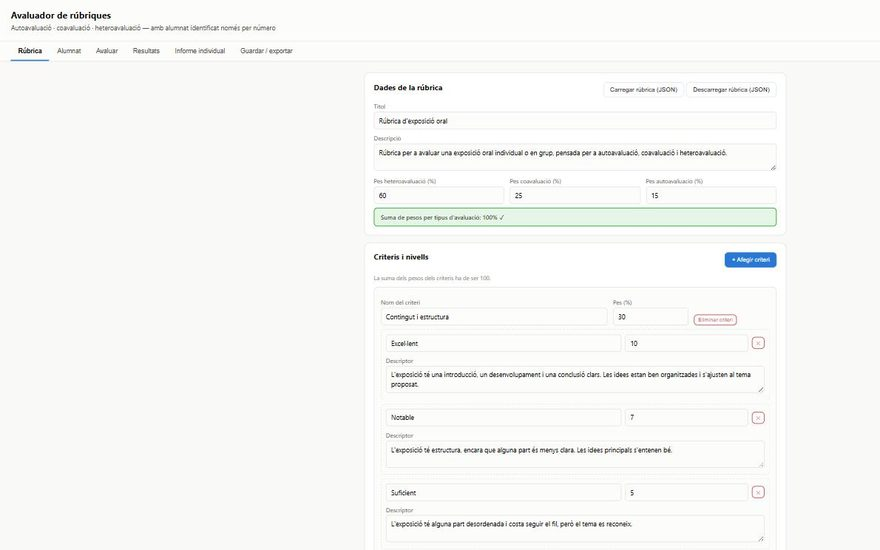
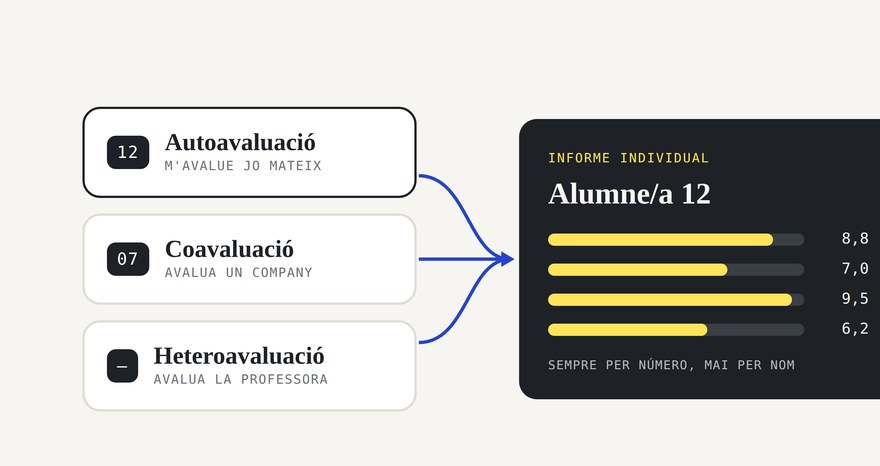
Millores de disseny: banda a Prompts, miniatures noves i llegibles, targetes de Formacions i llista de Recerca

diff --git a/index.html b/index.html
@@ -299,6 +299,23 @@
   .banda{background:#EFEDE6;box-shadow:0 0 0 100vmax #EFEDE6;clip-path:inset(0 -100vmax);
     padding-top:34px;padding-bottom:10px;margin-top:14px}
   .banda .card{background:#fff}
+  /* --- targetes informatives (sense enllaç) --- */
+  .card.info{border-left:3px solid var(--marker);position:relative}
+  .card.info h3{padding-right:40px}
+  .card.info .idx{position:absolute;top:15px;right:18px;
+    font-family:'Fraunces',Georgia,serif;font-weight:700;font-size:27px;line-height:1;
+    color:#E4E2D8}
+  /* --- llista de línies de recerca --- */
+  .linies{max-width:900px;padding-bottom:28px}
+  .linia{display:grid;grid-template-columns:78px 1fr;gap:20px;align-items:start;
+    padding:22px 0;border-top:1px solid var(--line)}
+  .linia:last-child{border-bottom:1px solid var(--line)}
+  .linia .n{font-family:'IBM Plex Mono',monospace;font-size:11px;letter-spacing:.1em;
+    color:var(--blue);padding-top:7px}
+  .linia h3{font-family:'Fraunces',Georgia,serif;font-weight:600;font-size:20.5px;
+    line-height:1.25;margin-bottom:6px}
+  .linia p{font-size:14px;color:var(--muted);max-width:650px}
+  @media(max-width:560px){.linia{grid-template-columns:1fr;gap:2px}.linia .n{padding-top:0}}
   /* --- xifres destacades --- */
   .xifres{background:var(--ink);color:#F6F5F1;padding:38px 0 34px}
   .xifres-grid{display:grid;grid-template-columns:repeat(auto-fit,minmax(160px,1fr));gap:26px}
@@ -452,28 +469,28 @@
     <div class="sec-head"><span class="sec-num">02</span><h2>Formacions</h2></div>
     <p class="sec-desc">Les meues principals línies de formació són:</p>
     <div class="grid">
-      <article class="card">
-        <span class="tag">Línia 1</span>
+      <article class="card info">
+        <span class="idx" aria-hidden="true">01</span>
         <h3>Intel·ligència Artificial aplicada a l'educació</h3>
         <p>Eines, prompting, creació de materials, personalització de l'aprenentatge, ètica i ús responsable de la IA.</p>
       </article>
-      <article class="card">
-        <span class="tag">Línia 2</span>
+      <article class="card info">
+        <span class="idx" aria-hidden="true">02</span>
         <h3>Didàctica de les llengües</h3>
         <p>Metodologies actives per a l'ensenyament del valencià i del castellà, desenvolupament de la competència comunicativa i disseny de situacions d'aprenentatge.</p>
       </article>
-      <article class="card">
-        <span class="tag">Línia 3</span>
+      <article class="card info">
+        <span class="idx" aria-hidden="true">03</span>
         <h3>Oratòria i debat acadèmic</h3>
         <p>Estratègies per a potenciar l'expressió oral, l'argumentació, el pensament crític i les habilitats comunicatives de l'alumnat.</p>
       </article>
-      <article class="card">
-        <span class="tag">Línia 4</span>
+      <article class="card info">
+        <span class="idx" aria-hidden="true">04</span>
         <h3>Innovació educativa i competència digital docent</h3>
         <p>Aprenentatge basat en projectes, gamificació, eines digitals i disseny d'experiències d'aprenentatge motivadores.</p>
       </article>
-      <article class="card">
-        <span class="tag">Línia 5</span>
+      <article class="card info">
+        <span class="idx" aria-hidden="true">05</span>
         <h3>Creació de recursos educatius digitals</h3>
         <p>Ús de plataformes i aplicacions per a elaborar materials interactius, activitats competencials i propostes d'avaluació.</p>
       </article>
@@ -483,7 +500,7 @@
     </div>
   </section>
 
-  <section id="trajectoria" class="banda">
+  <section id="trajectoria">
     <div class="sec-head"><span class="sec-num">03</span><h2>Formadora i ponent</h2></div>
     <p class="sec-desc">Forme professorat en intel·ligència artificial educativa per al CEFIRE, universitats, patronals educatives i projectes europeus, sempre des de l'ús ètic, responsable i amb sentit pedagògic.</p>
     <div class="ponent-grid">
@@ -504,23 +521,26 @@
     </div>
   </section>
 
-  <section id="prompts">
+  <section id="prompts" class="banda">
     <div class="sec-head"><span class="sec-num">04</span><h2>Prompts i recursos per al professorat</h2></div>
     <p class="sec-desc">Biblioteques de prompts pensades perquè crear material didàctic amb IA coste minuts i tinga criteri pedagògic.</p>
     <div class="grid">
       <article class="card">
+        <img class="mini" src="img/prompts-lectura.jpg" alt="Captura de Prompts de Lectura: índex de generadors i prompt generat" loading="lazy" width="880" height="466">
         <span class="tag">Comprensió lectora</span>
         <h3>Prompts de Lectura<span class="new">NOU</span></h3>
         <p>Huit generadors basats en la ciència de la lectura: descodificació, cohesió, inferència, multinivell, metacognició, lectura crítica i avaluació estil PISA. Bilingüe valencià/castellà.</p>
         <a class='go' href='/prompts-lectura'>OBRI LA FERRAMENTA →</a>
       </article>
       <article class="card">
+        <img class="mini" src="img/prompts-aula.jpg" alt="Captura de Prompts d'Aula: apartats de la biblioteca i generador de prompts" loading="lazy" width="880" height="466">
         <span class="tag">Biblioteca general · Accés amb codi</span>
         <h3>Prompts d'Aula</h3>
         <p>Biblioteca bilingüe de prompts per a docents amb generador integrat amb IA: programació LOMLOE, materials, DUA, rúbriques, feedback, avaluació, burocràcia i tutoria.</p>
         <a class="go" href="/prompts-aula">ACCÉS PER A PARTICIPANTS DE LES FORMACIONS →</a>
       </article>
       <article class="card">
+        <img class="mini" src="img/bruixola.jpg" alt="Captura de La Brúixola IA: fitxes de ferramentes amb els avisos en groc" loading="lazy" width="880" height="466">
         <span class="tag">Directori de ferramentes</span>
         <h3>La Brúixola IA</h3>
         <p>Directori curat de ferramentes d'IA per a educació: models, imatge, vídeo, àudio, assistents docents i més. Cada ferramenta porta un avís quan canvia de nom, de condicions o deixa de rebre manteniment.</p>
@@ -557,21 +577,21 @@
       </article>
       -->
       <article class="card">
-        <img class="mini" src="img/avaluador-centre.jpg" alt="Captura de l'Avaluador de rúbriques del centre" loading="lazy" width="880" height="550">
+        <img class="mini" src="img/avaluador-centre.jpg" alt="Esquema de l'Avaluador de rúbriques: autoavaluació, coavaluació i heteroavaluació conflueixen en un informe individual" loading="lazy" width="880" height="466">
         <span class="tag">Avaluació · Educació</span>
         <h3>Avaluador de rúbriques</h3>
         <p>Sistema d'autoavaluació, coavaluació i heteroavaluació per a centres educatius. L'alumnat s'identifica només per número —mai amb nom i cognoms— i totes les dades es queden dins del domini de Workspace del centre. Inclou informe individual, comparació entre l'autoavaluació i l'avaluació docent, i retroacció generada a partir dels descriptors de la rúbrica.</p>
         <a class="go" href="https://avaluador-rubriques.netlify.app/">OBRI LA FERRAMENTA →</a>
       </article>
       <article class="card">
-        <img class="mini" src="img/tria-i-temps.jpg" alt="Captura de Tria i Temps" loading="lazy" width="880" height="550">
+        <img class="mini" src="img/tria-i-temps.jpg" alt="Captura de Tria i Temps: el número triat a l'atzar i el cronòmetre" loading="lazy" width="880" height="466">
         <span class="tag">Gestió d'aula · Oralitat</span>
         <h3>Tria i Temps</h3>
         <p>Eina d'aula per a triar alumnat a l'atzar sense repetir —per número o per nom— i controlar el temps de les intervencions orals amb un cronòmetre que avisa amb color. Funciona en el mòbil i projectada, sense connexió i sense guardar cap dada.</p>
         <a class="go" href="https://sanforbel.github.io/tria-i-temps/" target="_blank" rel="noopener">OBRI LA FERRAMENTA →</a>
       </article>
       <article class="card">
-        <img class="mini" src="img/avaluador-obert.jpg" alt="Captura de l'Avaluador de rúbriques obert" loading="lazy" width="880" height="550">
+        <img class="mini" src="img/avaluador-obert.jpg" alt="Captura de l'Avaluador de rúbriques obert: tria del tipus d'avaluació i identificació per número" loading="lazy" width="880" height="466">
         <span class="tag">Avaluació · Versió oberta</span>
         <h3>Avaluador de rúbriques obert</h3>
         <p>La mateixa idea que l'avaluador del centre, però sense comptes ni permisos: qualsevol docent pot obrir l'enllaç i usar-lo. Autoavaluació, coavaluació i heteroavaluació amb l'alumnat identificat per número, càlcul de la nota ponderada i descàrrega dels resultats en full de càlcul. Admet qualsevol rúbrica en format JSON.</p>
@@ -584,22 +604,28 @@
   <section id="recerca">
     <div class="sec-head"><span class="sec-num">07</span><h2>Recerca i reflexió</h2></div>
     <p class="sec-desc">M'interessa investigar la intersecció entre la tecnologia i l'aprenentatge de les llengües, amb tres línies de treball:</p>
-    <div class="grid">
-      <article class="card">
-        <span class="tag">Línia de recerca</span>
-        <h3>IA i competència lingüística</h3>
-        <p>Com poden els models de llenguatge millorar la comprensió lectora i l'expressió escrita sense substituir el processament profund que constitueix l'aprenentatge.</p>
-      </article>
-      <article class="card">
-        <span class="tag">Línia de recerca</span>
-        <h3>IA, oratòria i pensament crític</h3>
-        <p>El paper de la IA en el desenvolupament de l'argumentació, el debat acadèmic i la capacitat de l'alumnat per a avaluar críticament la informació.</p>
-      </article>
-      <article class="card">
-        <span class="tag">Línia de recerca</span>
-        <h3>Tecnologia i humanisme educatiu</h3>
-        <p>Com integrar la innovació tecnològica des d'una mirada profundament humana, on la ferramenta amplifica la relació educativa en lloc de reemplaçar-la.</p>
-      </article>
+    <div class="linies">
+      <div class="linia">
+        <span class="n">LÍNIA 01</span>
+        <div>
+          <h3>IA i competència lingüística</h3>
+          <p>Com poden els models de llenguatge millorar la comprensió lectora i l'expressió escrita sense substituir el processament profund que constitueix l'aprenentatge.</p>
+        </div>
+      </div>
+      <div class="linia">
+        <span class="n">LÍNIA 02</span>
+        <div>
+          <h3>IA, oratòria i pensament crític</h3>
+          <p>El paper de la IA en el desenvolupament de l'argumentació, el debat acadèmic i la capacitat de l'alumnat per a avaluar críticament la informació.</p>
+        </div>
+      </div>
+      <div class="linia">
+        <span class="n">LÍNIA 03</span>
+        <div>
+          <h3>Tecnologia i humanisme educatiu</h3>
+          <p>Com integrar la innovació tecnològica des d'una mirada profundament humana, on la ferramenta amplifica la relació educativa en lloc de reemplaçar-la.</p>
+        </div>
+      </div>
     </div>
   </section>
 
